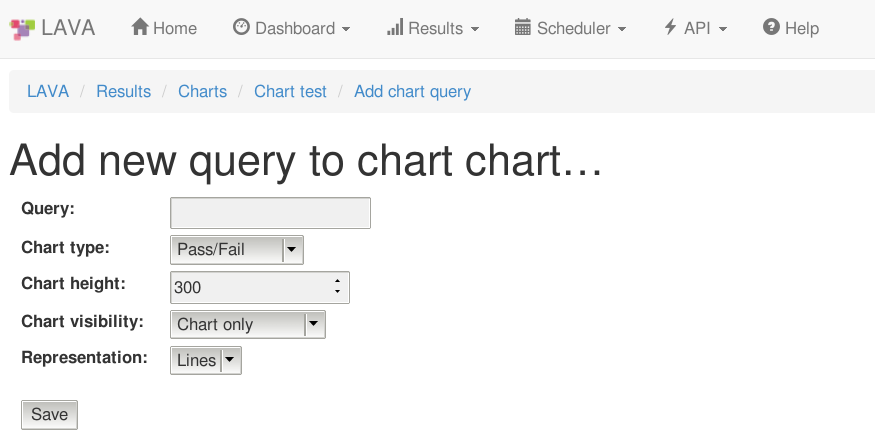
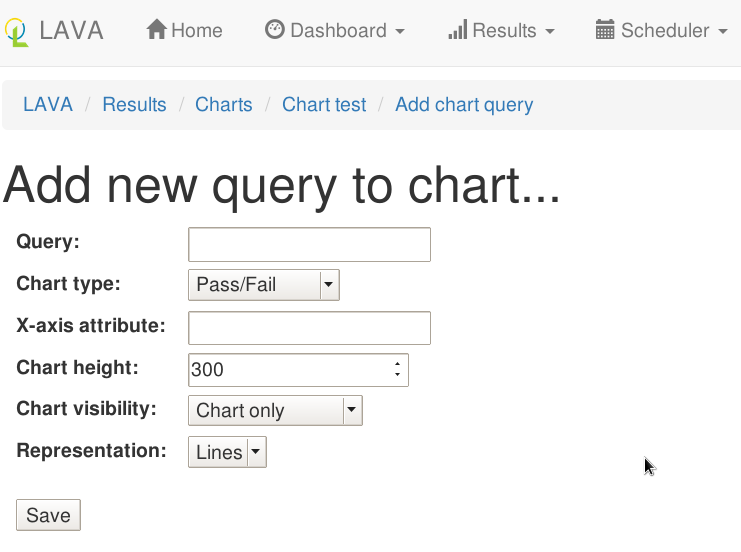
X-axis attribute in charts now use NamedTestAttribute table.
Fix get_xaxis_attribute method to use new models instead of the
old legacy one (NamedAttribute) from V1.
Fixes bug 2905 (https://bugs.linaro.org/show_bug.cgi?id=2905)

diff --git a/lava_results_app/templates/lava_results_app/job.html b/lava_results_app/templates/lava_results_app/job.html
@@ -98,25 +98,25 @@
       </p>
       <p>Metadata submitted as part of the job submission is also included, if present.</p>
        <div class="row">
-       <div class="col-xs-6">
+       <div class="col-xs-12">
         <ul>
           {% for key, value in metadata.items %}
               {% if 'target' in key %}
-                  <li><b>{{ key|metadata_key}}</b>:
+                  <li><b>{{ key }}</b>:
                   {{ key|markup_metadata:value }}</li>
               {% elif 'deploy' in key %}
-                  <li><b>{{ key|metadata_key}}</b>:
+                  <li><b>{{ key }}</b>:
                   {{ value }}</li>
               {% elif 'omit.' in key %}
                   <!-- inline without test cases -->
               {% elif 'boot' in key %}
-                  <li><b>{{ key|metadata_key}}</b>:
+                  <li><b>{{ key }}</b>:
                   {{ value }}</li>
               {% elif 'test' in key %}
-                  <li><b>{{ key|metadata_key}}</b>:
+                  <li><b>{{ key }}</b>:
                   {{ key|markup_metadata:value }}</li>
               {% elif 'parameters' in key %}
-                  <li><b>{{ key|metadata_key }}</b>:
+                  <li><b>{{ key }}</b>:
                   <ul>{% for paramkey, paramvalue in value.items %}
                       <li>{{ paramkey }}: {{ paramvalue }}</li>
                       {% endfor %}

diff --git a/lava_results_app/static/lava_results_app/js/chart.js b/lava_results_app/static/lava_results_app/js/chart.js
@@ -1085,7 +1085,13 @@ $(document).ready(function () {
                     if (chart_data.basic.is_keys_numeric) {
                         return val;
                     } else {
-                        return ticks[val].replace(" ", "<br/>");
+                        // Bug with jflot if there's only one tick, it adds
+                        // two more of the same name.
+                        if (ticks.length == 1) {
+                            return ticks[0].replace(" ", "<br/>");
+                        } else {
+                            return ticks[val].replace(" ", "<br/>");
+                        }
                     }
             }
 

diff --git a/lava_results_app/templates/lava_results_app/chart_query_form.html b/lava_results_app/templates/lava_results_app/chart_query_form.html
@@ -5,7 +5,7 @@
 {% endblock %}
 
 {% block content %}
-<h1>Add new query to chart {{form.chart.name}}…</h1>
+<h1>Add new query to chart...</h1>
 
 {% block content_form %}
 <form action="" method="post">{% csrf_token %}

diff --git a/lava_results_app/templates/lava_results_app/chart_detail.html b/lava_results_app/templates/lava_results_app/chart_detail.html
@@ -130,6 +130,9 @@
     <div>
       Representation: {{ chart_query.representation }}
     </div>
+    <div>
+      X-axis attribute: {{ chart_query.xaxis_attribute }}
+    </div>
   </div>
 
   {% empty %}

diff --git a/lava_results_app/static/lava_results_app/css/chart.css b/lava_results_app/static/lava_results_app/css/chart.css
@@ -176,7 +176,7 @@ div.selector .selector-chosen select {
     width: 100%;
     margin: 10px 0 10px 0;
     padding: 7px;
-    height: 150px;
+    height: 180px;
 }
 
 .sortable-placeholder:hover {

diff --git a/lava_scheduler_app/models.py b/lava_scheduler_app/models.py
@@ -2713,19 +2713,20 @@ class TestJob(RestrictedResource):
 
     def get_xaxis_attribute(self, xaxis_attribute=None):
 
+        from lava_results_app.models import NamedTestAttribute, TestData
         attribute = None
         if xaxis_attribute:
             try:
-                from lava_results_app.models import TestData
-                content_type_id = ContentType.objects.get_for_model(
-                    TestData).id
-                attribute = NamedAttribute.objects.filter(
-                    content_type_id=content_type_id,
-                    object_id__in=self.testdata_set.all().values_list(
-                        'id', flat=True),
-                    name=xaxis_attribute).values_list('value', flat=True)[0]
+                testdata = TestData.objects.filter(testjob=self).first()
+                if testdata:
+                    attribute = NamedTestAttribute.objects.filter(
+                        content_type=ContentType.objects.get_for_model(
+                            TestData),
+                        object_id=testdata.id,
+                        name=xaxis_attribute).values_list('value', flat=True)[0]
+
             # FIXME: bare except
-            except:  # There's no attribute, use date.
+            except:  # There's no attribute, skip this result.
                 pass
 
         return attribute

diff --git a/lava_results_app/migrations/0014_xaxis_maxlength_increase.py b/lava_results_app/migrations/0014_xaxis_maxlength_increase.py
@@ -1,0 +1,20 @@
+# -*- coding: utf-8 -*-
+# Generated by Django 1.10.5 on 2017-03-06 15:22
+from __future__ import unicode_literals
+
+from django.db import migrations, models
+
+
+class Migration(migrations.Migration):
+
+    dependencies = [
+        ('lava_results_app', '0013_buglinks'),
+    ]
+
+    operations = [
+        migrations.AlterField(
+            model_name='chartquery',
+            name='xaxis_attribute',
+            field=models.CharField(blank=True, max_length=100, null=True, verbose_name=b'X-axis attribute'),
+        ),
+    ]

diff --git a/lava_scheduler_app/templatetags/utils.py b/lava_scheduler_app/templatetags/utils.py
@@ -221,11 +221,6 @@ def result_name(result_dict):
 
 
 @register.filter()
-def metadata_key(key, index=0):
-    return '.'.join(key.split('.')[index:]).replace('definition.', '')
-
-
-@register.filter()
 def markup_metadata(key, value):
     if 'target.device_type' in key:
         return mark_safe("<a href='/scheduler/device_type/%s'>%s</a>" % (value, value))

diff --git a/lava_results_app/models.py b/lava_results_app/models.py
@@ -1477,7 +1477,7 @@ class ChartQuery(models.Model):
     xaxis_attribute = models.CharField(
         blank=True,
         null=True,
-        max_length=20,
+        max_length=100,
         verbose_name='X-axis attribute')
 
     representation = models.CharField(

diff --git a/doc/v2/lava-queries-charts.rst b/doc/v2/lava-queries-charts.rst
@@ -283,6 +283,12 @@ Chart display depends mostly on the object set selected in the query so for
 example if the query object set is test job, charts will display results per
 test job, etc.
 
+The "X axis" will by default represent the date (i.e. job completion date in
+case of the Test job query) but this behavior can be changed by utilizing the
+"X-axis attribute" field. This field must be correctly set to the existing
+:term:`metadata` field. If done so, the X axis of the chart will be split into
+this fields' values.
+
 Chart type represents the type of information chart will be collecting from the
 query and currently options 'Pass/fail', 'Measurement' and 'Attributes' are
 supported.
